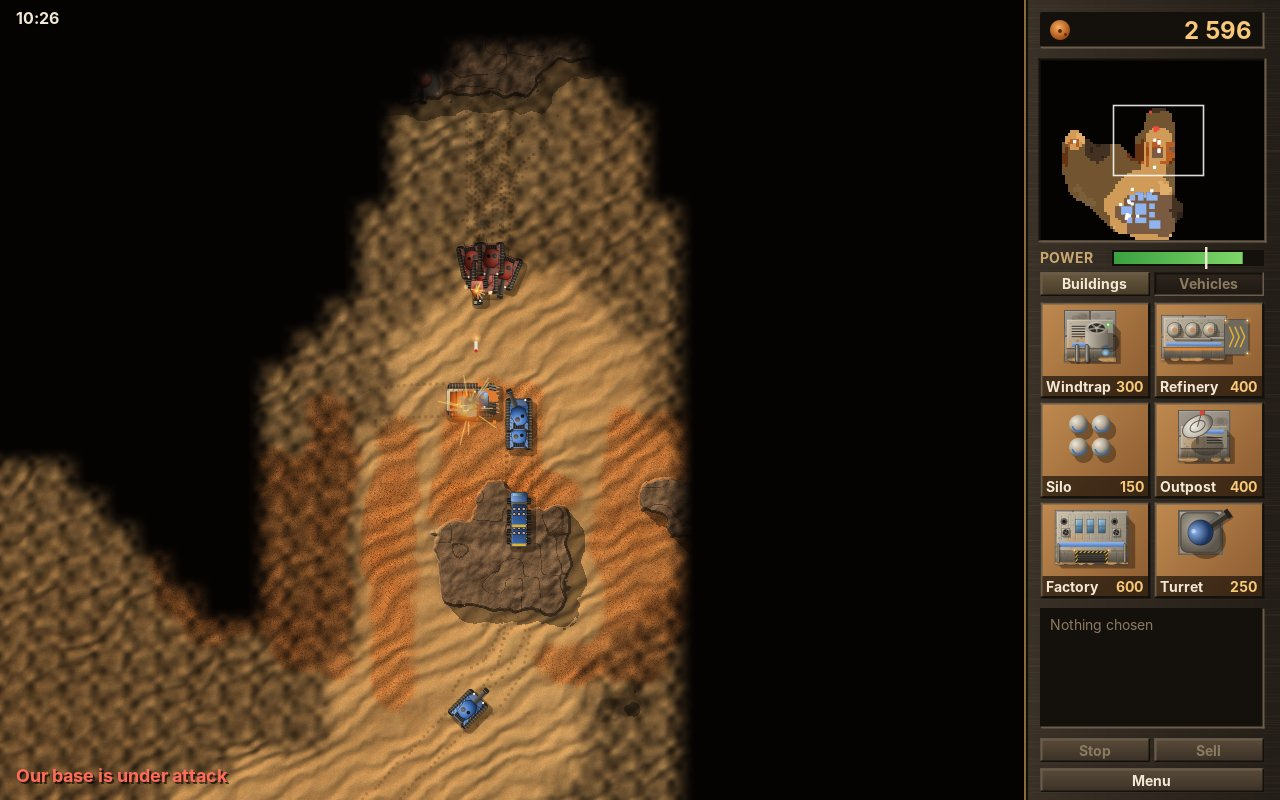
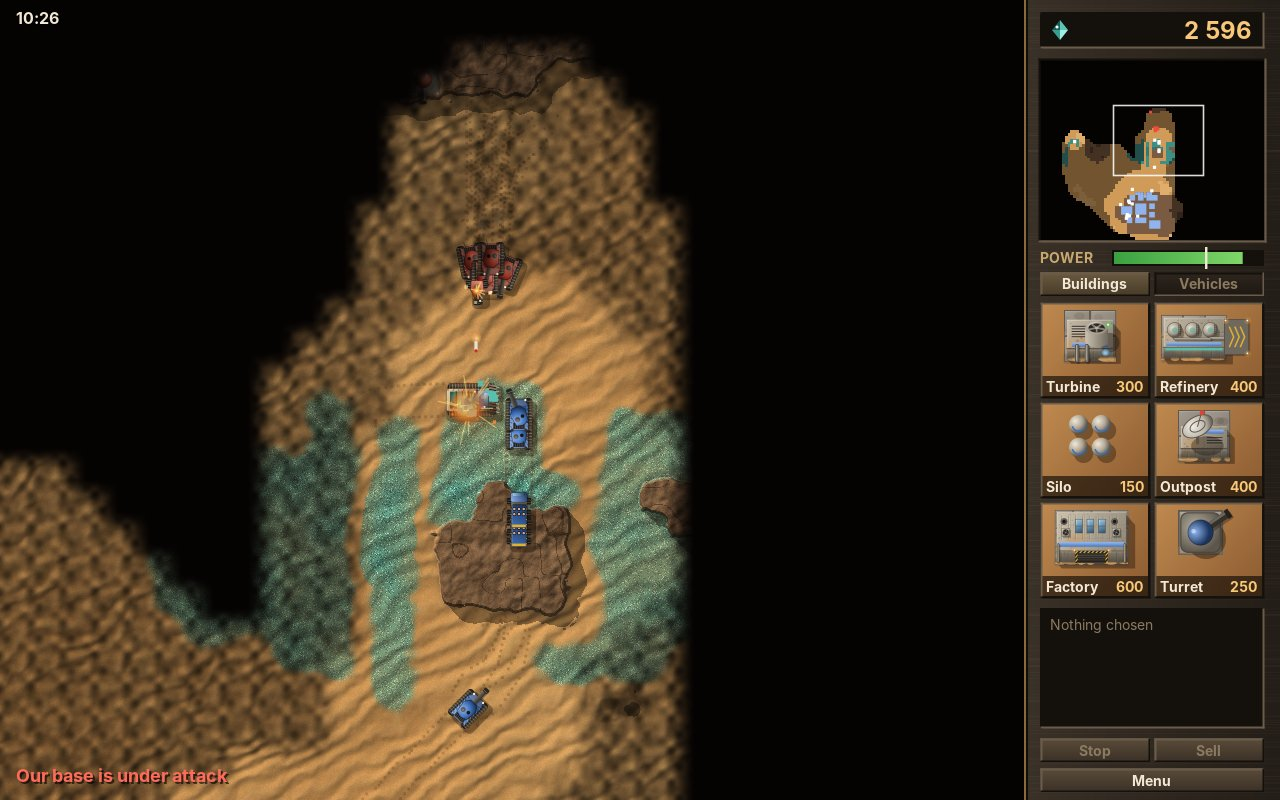
Handbook: Sands harvests crystals, not spice
Chapter 31 follows the game's rename: crystals (teal) for spice, wind
turbine for windtrap, airlifter for carryall, sand burrower for worm. New
screenshots, the snippet sections under their new names, and the engine's
comments and a test likewise. SANDS_COMMIT pins the renamed game.

Claude-Session: https://claude.ai/code/session_01WemkTky2DQK55ikbYJkuGA

diff --git a/src/test/java/eu/amadeos/gameengine/economy/ProductionTest.java b/src/test/java/eu/amadeos/gameengine/economy/ProductionTest.java
@@ -76,14 +76,14 @@ class ProductionTest {
     void aBuildingWaitsToBePlacedAndHoldsTheQueue() {
         Credits credits = new Credits(1000, 2000);
         Production<String> yard = new Production<>();
-        yard.order("windtrap", 300, 5);
+        yard.order("turbine", 300, 5);
         yard.order("silo", 100, 5);
         String done = run(yard, credits, 5, 1);
-        assertEquals("windtrap", done);
+        assertEquals("turbine", done);
         yard.keep(done);
         assertNull(run(yard, credits, 5, 1));
-        assertEquals(0, yard.progress(), "the silo waits for the windtrap to be placed");
-        assertEquals("windtrap", yard.take());
+        assertEquals(0, yard.progress(), "the silo waits for the turbine to be placed");
+        assertEquals("turbine", yard.take());
         assertEquals("silo", run(yard, credits, 5, 1));
 
         yard.order("silo", 100, 5);

diff --git a/src/main/java/eu/amadeos/gameengine/economy/Production.java b/src/main/java/eu/amadeos/gameengine/economy/Production.java
@@ -8,7 +8,7 @@ import java.util.List;
  * What a building is making: a queue of orders, the first one in the works. As in Dune II the price is not
  * paid at the start but <b>while it is made</b>: a tank of 300 credits that takes 20 seconds costs 15
  * credits a second. Without the money, the work stops and waits; with less power, it goes slower. The player
- * can start an order with nearly no money and watch it grow as the harvesters bring spice, which keeps the
+ * can start an order with nearly no money and watch it grow as the harvesters bring crystal, which keeps the
  * game moving, and can cancel an order and get back what was paid so far.
  *
  * <p>The credits are whole, the payment per step is not: 15 credits a second at 120 steps a second is an

diff --git a/src/main/java/eu/amadeos/gameengine/path/FieldCache.java b/src/main/java/eu/amadeos/gameengine/path/FieldCache.java
@@ -8,7 +8,7 @@ import java.util.Map;
 /**
  * Flow fields towards many goals, each searched once and kept while the map stays as it is. In Towers all
  * enemies had one goal and one field. In a strategy game every order has a goal of its own: this group to
- * the ridge, that one to the spice, the harvesters home. A group shares one field, and two groups sent to
+ * the ridge, that one to the crystal, the harvesters home. A group shares one field, and two groups sent to
  * the same place share it too. When the map changes, because a building went up or came down, every field
  * may be wrong: {@link #invalidate} forgets them all, and each is searched again when it is next asked for.
  *

diff --git a/src/main/java/eu/amadeos/gameengine/ai/InfluenceMap.java b/src/main/java/eu/amadeos/gameengine/ai/InfluenceMap.java
@@ -12,7 +12,7 @@ import java.util.Arrays;
  *
  * <p>With two of them, one per side, the questions of an opponent become arithmetic: where is the enemy
  * strongest (the value at its largest)? Which of the enemy's buildings is defended worst (the building
- * with the least enemy strength around it)? Is this spice field safe for a harvester (no enemy strength
+ * with the least enemy strength around it)? Is this crystal field safe for a harvester (no enemy strength
  * there)? Game AI has used such maps since the strategy games of the nineties; they are cheap, and what
  * they answer is easy to see when they are drawn.
  *

diff --git a/src/main/java/eu/amadeos/gameengine/minimap/Minimap.java b/src/main/java/eu/amadeos/gameengine/minimap/Minimap.java
@@ -15,7 +15,7 @@ import java.awt.image.BufferedImage;
  * send units there.
  *
  * <p>The picture is an image of exactly one pixel per tile. The game paints a tile when it changes, which
- * is seldom (spice gone, a building up, fog lifted), and the image is drawn scaled into the minimap's box in
+ * is seldom (crystal gone, a building up, fog lifted), and the image is drawn scaled into the minimap's box in
  * every frame. Scaling an image of 64 × 64 pixels into a box of 112 × 112 units is a small copy; drawing 4,096
  * rectangles would not be. The dots are drawn over it in every frame: they move.
  *

diff --git a/src/main/java/eu/amadeos/gameengine/economy/Credits.java b/src/main/java/eu/amadeos/gameengine/economy/Credits.java
@@ -1,7 +1,7 @@
 package eu.amadeos.gameengine.economy;
 
 /**
- * The money of one side, and how much of it can be kept. In Dune II spice brought in by the harvesters
+ * The money of one side, and how much of it can be kept. In Dune II what the harvesters bring in
  * fills the refineries and silos; what they cannot hold is lost. A limit to the store makes the player build
  * where the money goes, and spend it, instead of saving up for ever.
  *

diff --git a/docs/handbook/chapters/31-sands.md b/docs/handbook/chapters/31-sands.md
@@ -1,6 +1,6 @@
 # 31. Sands
 
-Towers (chapter 30) gave the player a mouse and a map larger than the screen, but nothing to command: the enemies walked on their own, and the towers stood still. **Sands** hands over an army. Two houses share a desert planet, each with a construction yard on a plateau of rock. Harvesters gather the spice that lies in the sand, a refinery turns it into credits, and the credits pay for windtraps, a factory, turrets and vehicles: fast trikes, tanks with turning turrets, launchers whose rockets burst and hurt everything around them. The computer plays the other house by the same rules: it builds its base, harvests, defends and attacks in growing waves. Whoever loses the last building has lost. On the open sand of the later missions, a worm hunts whatever drives there.
+Towers (chapter 30) gave the player a mouse and a map larger than the screen, but nothing to command: the enemies walked on their own, and the towers stood still. **Sands** hands over an army. Two houses share a desert planet, each with a construction yard on a plateau of rock. Harvesters gather the crystal that lies in the sand, a refinery turns it into credits, and the credits pay for wind turbines, a factory, turrets and vehicles: fast trikes, tanks with turning turrets, launchers whose rockets burst and hurt everything around them. The computer plays the other house by the same rules: it builds its base, harvests, defends and attacks in growing waves. Whoever loses the last building has lost. On the open sand of the later missions, a burrower hunts whatever drives there.
 
 <figure markdown>
 ![A base after six minutes, five tanks sent off](images/sands/base.jpg){ width="400" }
@@ -18,19 +18,19 @@ Towers (chapter 30) gave the player a mouse and a map larger than the screen, bu
     - **An economy**: credits with a store, production paid while it runs, power that slows everything down
     - **A computer opponent**: a building plan, a place for each building, and an influence map that finds the weakest spot
     - **Saving a whole game**: hundreds of things in a save file, numbers exact to the bit, and a loaded battle that goes on exactly as it would have
-    - **A ground drawn on other threads**: dunes, rock and spice, worked out pixel by pixel, in squares, while the game runs
+    - **A ground drawn on other threads**: dunes, rock and crystal, worked out pixel by pixel, in squares, while the game runs
 
 The complete game is in [amade-sands-game](https://github.com/datazuul/amade-sands-game).
 
 ## The rules
 
-1. A map is 64 × 64 tiles of 16 units: sand, dunes (slower to drive on), rock, cliffs (closed to everything) and spice, a little or a lot. The view shows 32 × 25 tiles; the panel on the right takes 128 of the 640 units.
+1. A map is 64 × 64 tiles of 16 units: sand, dunes (slower to drive on), rock, cliffs (closed to everything) and crystal, a little or a lot. The view shows 32 × 25 tiles; the panel on the right takes 128 of the 640 units.
 2. Each house starts with a **construction yard**, a little money and a few vehicles. The yard builds one building at a time; when it is ready, the player puts it on rock, near a building of their own, where nothing stands. A building costs credits, and they are paid **while it is built**: without money, the work waits.
-3. **Windtraps** make power; every other building uses it. With too little power, the yard and the factory work at half speed, the turrets reload slowly, and the outpost's minimap goes dark.
-4. A **refinery** comes with a **harvester**, brought by a carryall. A harvester drives to the spice, fills its hopper, drives home and unloads; the spice becomes credits. Refineries and **silos** store credits; what they cannot hold is lost.
+3. **Wind turbines** make power; every other building uses it. With too little power, the yard and the factory work at half speed, the turrets reload slowly, and the outpost's minimap goes dark.
+4. A **refinery** comes with a **harvester**, brought by an airlifter. A harvester drives to the crystal, fills its hopper, drives home and unloads; the crystal becomes credits. Refineries and **silos** store credits; what they cannot hold is lost.
 5. The **factory** makes trikes, tanks and launchers, five in a row at most. **Turrets** guard the base. A building can be sold for half its price.
 6. A side sees what its vehicles and buildings see. What it saw once stays on the map, dimmed, with the enemy's buildings as they were when it last looked.
-7. The **worm** appears after a while on the missions that have one. It hunts vehicles on the sand, harvesters first, and swallows them whole. It cannot reach rock.
+7. The **burrower** appears after a while on the missions that have one. It hunts vehicles on the sand, harvesters first, and swallows them whole. It cannot reach rock.
 8. A side without buildings has lost. The fastest win of each mission is kept, and winning opens the next.
 
 ## Step 1: Choosing and commanding
@@ -59,7 +59,7 @@ The difference between a click and a box is a few units of mouse movement. A han
 --8<-- "amade-sands-game/src/main/java/eu/amadeos/games/sands/ui/game/SandsGame.java:release"
 ```
 
-The right button is the order. What it means depends on what is under the mouse and on who is chosen, and one button doing the right thing is much of what makes such a game pleasant: an enemy is attacked, a harvester sent to the spice harvests, a harvester sent to a refinery goes home to unload, everything else drives there. Ctrl turns a move into a hunt, in which the vehicles fight whatever they meet on the way.
+The right button is the order. What it means depends on what is under the mouse and on who is chosen, and one button doing the right thing is much of what makes such a game pleasant: an enemy is attacked, a harvester sent to the crystal harvests, a harvester sent to a refinery goes home to unload, everything else drives there. Ctrl turns a move into a hunt, in which the vehicles fight whatever they meet on the way.
 
 ```java title="amade-sands-game · ui/game/SandsGame.java"
 --8<-- "amade-sands-game/src/main/java/eu/amadeos/games/sands/ui/game/SandsGame.java:command"
@@ -117,7 +117,7 @@ A vehicle turns before it drives, as a tank does, and drives slower the further 
 --8<-- "amade-sands-game/src/main/java/eu/amadeos/games/sands/domain/Game.java:drive"
 ```
 
-The slots keep the group apart at the end. On the way, nothing does yet: five tanks following one field converge on the same tiles. So after all vehicles have moved, those that overlap push each other apart, through the spatial grid of chapter 24. Moving ones yield more than those that stand, and a harvester at work hardly at all, so a column that passes it does not shove it off its spice:
+The slots keep the group apart at the end. On the way, nothing does yet: five tanks following one field converge on the same tiles. So after all vehicles have moved, those that overlap push each other apart, through the spatial grid of chapter 24. Moving ones yield more than those that stand, and a harvester at work hardly at all, so a column that passes it does not shove it off its crystal:
 
 ```java title="amade-sands-game · domain/Game.java"
 --8<-- "amade-sands-game/src/main/java/eu/amadeos/games/sands/domain/Game.java:separate"
@@ -175,7 +175,7 @@ Two details took some looking. Taking the *darkest* tile at each corner means th
 
 ## Step 4: The minimap
 
-The panel shows the whole map, small: 64 × 64 tiles in a box of 90 × 90 units. Drawing 4,096 little rectangles in every frame would cost more than the battlefield. The `Minimap` keeps an image of exactly one pixel per tile, and the game paints a pixel only when its tile changes, which is seldom: the fog lifts, spice is harvested. In every frame the image is copied, scaled with hard edges, and the things that move are dotted over it.
+The panel shows the whole map, small: 64 × 64 tiles in a box of 90 × 90 units. Drawing 4,096 little rectangles in every frame would cost more than the battlefield. The `Minimap` keeps an image of exactly one pixel per tile, and the game paints a pixel only when its tile changes, which is seldom: the fog lifts, crystal is harvested. In every frame the image is copied, scaled with hard edges, and the things that move are dotted over it.
 
 ```java title="amade-game-engine · minimap/Minimap.java"
 --8<-- "amade-game-engine/src/main/java/eu/amadeos/gameengine/minimap/Minimap.java:minimap"
@@ -187,17 +187,17 @@ A click on it moves the camera there, a drag scrolls, and the right button sends
 --8<-- "amade-game-engine/src/main/java/eu/amadeos/gameengine/minimap/Minimap.java:convert"
 ```
 
-The game paints the minimap after every step in which the fog's or the spice's version has changed, and draws the buildings, ghosts and vehicles over it. It shows nothing at all without an **outpost** with power: in Dune II the radar is a building you have to earn.
+The game paints the minimap after every step in which the fog's or the crystal's version has changed, and draws the buildings, ghosts and vehicles over it. It shows nothing at all without an **outpost** with power: in Dune II the radar is a building you have to earn.
 
 ```java title="amade-sands-game · ui/game/Hud.java"
 --8<-- "amade-sands-game/src/main/java/eu/amadeos/games/sands/ui/game/Hud.java:minimap"
 ```
 
-## Step 5: Spice, credits and power
+## Step 5: Crystals, credits and power
 
 ### Harvesting
 
-A harvester is a vehicle with a task of its own. On spice it takes in a little in every step, and the tile loses what it takes; full, it drives home; on the pad of the refinery it unloads. Without spice under it, it looks for the nearest field from where it last harvested, so it goes back to the same field until it is empty:
+A harvester is a vehicle with a task of its own. On crystal it takes in a little in every step, and the tile loses what it takes; full, it drives home; on the pad of the refinery it unloads. Without crystal under it, it looks for the nearest field from where it last harvested, so it goes back to the same field until it is empty:
 
 ```java title="amade-sands-game · domain/Game.java"
 --8<-- "amade-sands-game/src/main/java/eu/amadeos/games/sands/domain/Game.java:harvest"
@@ -255,7 +255,7 @@ On rock, on no other building, under no vehicle, and near a building of the same
 
 While the player looks for the place, the building's footprint follows the mouse, green or red, tile by tile:
 
-![A windtrap looking for its place next to the yard](images/sands/placing.jpg){ width="560" }
+![A wind turbine looking for its place next to the yard](images/sands/placing.jpg){ width="560" }
 
 ```java title="amade-sands-game · ui/game/SandsPainter.java"
 --8<-- "amade-sands-game/src/main/java/eu/amadeos/games/sands/ui/game/SandsPainter.java:placing"
@@ -327,21 +327,21 @@ Being hit tells the side, now and then, where it is attacked, which the panel sa
 --8<-- "amade-sands-game/src/test/java/eu/amadeos/games/sands/domain/GameTest.java:test-fight"
 ```
 
-### The worm
+### The burrower
 
-The worm is the one thing on the map that belongs to nobody. It smells vehicles on the sand, harvesters at twice the distance, for they shake the ground; it turns towards its prey at a limited rate, so a fast trike can outrun it on a curve; it turns away from rock. A vehicle in its mouth is gone. Then it dives, and comes up again far from everyone after a while.
+The burrower is the one thing on the map that belongs to nobody. It smells vehicles on the sand, harvesters at twice the distance, for they shake the ground; it turns towards its prey at a limited rate, so a fast trike can outrun it on a curve; it turns away from rock. A vehicle in its mouth is gone. Then it dives, and comes up again far from everyone after a while.
 
 ```java title="amade-sands-game · domain/Game.java"
---8<-- "amade-sands-game/src/main/java/eu/amadeos/games/sands/domain/Game.java:worm"
+--8<-- "amade-sands-game/src/main/java/eu/amadeos/games/sands/domain/Game.java:burrower"
 ```
 
 ```java title="amade-sands-game · test/domain/GameTest.java"
---8<-- "amade-sands-game/src/test/java/eu/amadeos/games/sands/domain/GameTest.java:test-worm"
+--8<-- "amade-sands-game/src/test/java/eu/amadeos/games/sands/domain/GameTest.java:test-burrower"
 ```
 
 ### One step
 
-All of it in order: production, the computer's thoughts once a second, the vehicles, pushing apart, the turrets, the shots, the carryalls, the worm, the dead, the fog, and whether someone has won:
+All of it in order: production, the computer's thoughts once a second, the vehicles, pushing apart, the turrets, the shots, the airlifters, the burrower, the dead, the fog, and whether someone has won:
 
 ```java title="amade-sands-game · domain/Game.java"
 --8<-- "amade-sands-game/src/main/java/eu/amadeos/games/sands/domain/Game.java:update"
@@ -357,7 +357,7 @@ The computer plays by exactly the rules the player plays by. It has no money the
 
 ### What to build
 
-The order of its buildings is a list in `commander.txt`: windtrap, refinery, outpost, factory, windtrap, refinery, silo, windtrap, factory. It builds the first one of which it has fewer than the list names up to there. So a building it loses is simply the first missing one again, and the plan heals itself; and before a building that would use more power than it has, it builds a windtrap.
+The order of its buildings is a list in `commander.txt`: turbine, refinery, outpost, factory, turbine, refinery, silo, turbine, factory. It builds the first one of which it has fewer than the list names up to there. So a building it loses is simply the first missing one again, and the plan heals itself; and before a building that would use more power than it has, it builds a turbine.
 
 ```java title="amade-sands-game · domain/Commander.java"
 --8<-- "amade-sands-game/src/main/java/eu/amadeos/games/sands/domain/Commander.java:next"
@@ -399,7 +399,7 @@ On the title screen it plays against itself, on both sides, at double speed.
 
 ## Step 9: Saving the whole game
 
-Jump (chapter 27) saved progress: a handful of numbers. A running battle is a few hundred things, each with a dozen values, many of them in lists: vehicles, buildings, shots in the air, carryalls, both production queues of both sides, the fog, the ghosts, the spice on every tile, the computer's plans, and the random numbers. The engine's `SaveFile` holds keys and values; a `Snapshot` gives the lists names it can hold and a person can read:
+Jump (chapter 27) saved progress: a handful of numbers. A running battle is a few hundred things, each with a dozen values, many of them in lists: vehicles, buildings, shots in the air, airlifters, both production queues of both sides, the fog, the ghosts, the crystal on every tile, the computer's plans, and the random numbers. The engine's `SaveFile` holds keys and values; a `Snapshot` gives the lists names it can hold and a person can read:
 
 ```text
 unit.count=41
@@ -445,9 +445,9 @@ When this test fails, it names the first key that differs, and that is nearly al
 
 ### The ground
 
-The ground of Bricks or Towers was tiles with a little noise. A desert needs more: dunes with ripples that catch the light, rock with cracks and the shadows of cliffs, scree at the foot of the rock, and spice that lies orange in the hollows. `Terrain` works out every pixel on its own, from noise and the tiles of the map, with light from the top left. That takes a second or two for a whole map, too long for the start of a mission and much too long for a frame.
+The ground of Bricks or Towers was tiles with a little noise. A desert needs more: dunes with ripples that catch the light, rock with cracks and the shadows of cliffs, scree at the foot of the rock, and crystals that glint teal in the hollows. `Terrain` works out every pixel on its own, from noise and the tiles of the map, with light from the top left. That takes a second or two for a whole map, too long for the start of a mission and much too long for a frame.
 
-So it is done on other threads, in squares of 8 × 8 tiles. A square shows the plain colours of its tiles until its picture is ready, and the player, who looks at the base first, never sees that. Each square keeps two pictures: its ground without spice, and the colour the spice would have on each pixel, both lit already. When harvesting changes the spice under a square by a step, the two are mixed again, which is quick, and also done on another thread.
+So it is done on other threads, in squares of 8 × 8 tiles. A square shows the plain colours of its tiles until its picture is ready, and the player, who looks at the base first, never sees that. Each square keeps two pictures: its ground without crystal, and the colour the crystal would have on each pixel, both lit already. When harvesting changes the crystal under a square by a step, the two are mixed again, which is quick, and also done on another thread.
 
 ```java title="amade-sands-game · ui/game/Terrain.java"
 --8<-- "amade-sands-game/src/main/java/eu/amadeos/games/sands/ui/game/Terrain.java:update"
@@ -461,7 +461,7 @@ A picture made on another thread is handed over through an `AtomicReference`, an
 
 ### The things
 
-The buildings, vehicles in 32 directions, the harvester with five fillings of its hopper, the worm, explosions in eight pictures at three sizes: all are drawn once from vector shapes when the window opens, at the size of the screen, and copied after that. `Pictures` holds them:
+The buildings, vehicles in 32 directions, the harvester with five fillings of its hopper, the burrower, explosions in eight pictures at three sizes: all are drawn once from vector shapes when the window opens, at the size of the screen, and copied after that. `Pictures` holds them:
 
 ```java title="amade-sands-game · ui/game/Pictures.java"
 --8<-- "amade-sands-game/src/main/java/eu/amadeos/games/sands/ui/game/Pictures.java:pictures"
@@ -485,8 +485,8 @@ The first benchmark of the finished game said 17 to 22 milliseconds a frame at 1
 
 ## Step 11: Everything else
 
-- **Events.** The rules say what happened in a step as a list of records, as since chapter 26: fired, hit, burst, destroyed, collapsed, ready, placed, deployed, under attack, the worm rose, the worm ate. `Effects` turns them into explosions, smoke, wrecks and sounds, but only where the player sees them, or for the player's own side: the player must not hear a battle in the fog.
-- **Messages.** The same events become the line at the bottom of the map: *Construction complete*, *Our base is under attack*, *Harvester swallowed by the worm*.
+- **Events.** The rules say what happened in a step as a list of records, as since chapter 26: fired, hit, burst, destroyed, collapsed, ready, placed, deployed, under attack, the burrower rose, the burrower ate. `Effects` turns them into explosions, smoke, wrecks and sounds, but only where the player sees them, or for the player's own side: the player must not hear a battle in the fog.
+- **Messages.** The same events become the line at the bottom of the map: *Construction complete*, *Our base is under attack*, *Harvester swallowed by the burrower*.
 - **Music.** A slow desert tune in MML (chapter 24), and short ones for winning and losing.
 - **Scenes.** Title (the computer against itself), the choice of a mission, the battle, the pause (continue, save, load, leave), the result with the numbers of both sides.
 
@@ -513,13 +513,13 @@ The first benchmark of the finished game said 17 to 22 milliseconds a frame at 1
 | `save` | `Snapshot` | a whole game as keys and values, exact |
 | `random` | `SeededRandom.state` and `resume` | random numbers that go on after loading |
 
-Each of them is a page or two, each has its tests, and none of them knows of spice or tanks: an economy game in the spirit of *The Settlers* can use `Production`, `Credits`, the fog and the minimap as they are.
+Each of them is a page or two, each has its tests, and none of them knows of crystal or tanks: an economy game in the spirit of *The Settlers* can use `Production`, `Credits`, the fog and the minimap as they are.
 
 ## Exercises
 
 1. **Repair.** Damaged buildings are repaired for credits while the player holds a button. What does that mean for `Production`, which knows only orders with a fixed price? Is repair an order?
 2. **Formation shapes.** The slots are a blob around the target. Give the group a line facing the way it drives, the launchers behind the tanks. Where in `Formation` does that go, and what does `assign` need to know?
-3. **A smarter harvest.** The computer's harvesters drive to the nearest spice even where the player's tanks wait. Use the influence map to send them to the safest field instead.
+3. **A smarter harvest.** The computer's harvesters drive to the nearest crystal even where the player's tanks wait. Use the influence map to send them to the safest field instead.
 4. **Fog for the computer.** The computer's attack sees the player's buildings through the fog (`weakest` looks at all of them). Give it only what its own fog has seen, its ghosts, and watch it scout.
 5. **Replays.** The battle is exact from a save; the inputs are few (orders, builds). Record the orders with their step numbers, as Snake recorded keys (chapter 22), and play a whole battle back from the start.
 6. **A third house.** `Side` has two values. What would three houses need: in the fog, in the influence map, in `judge`?
